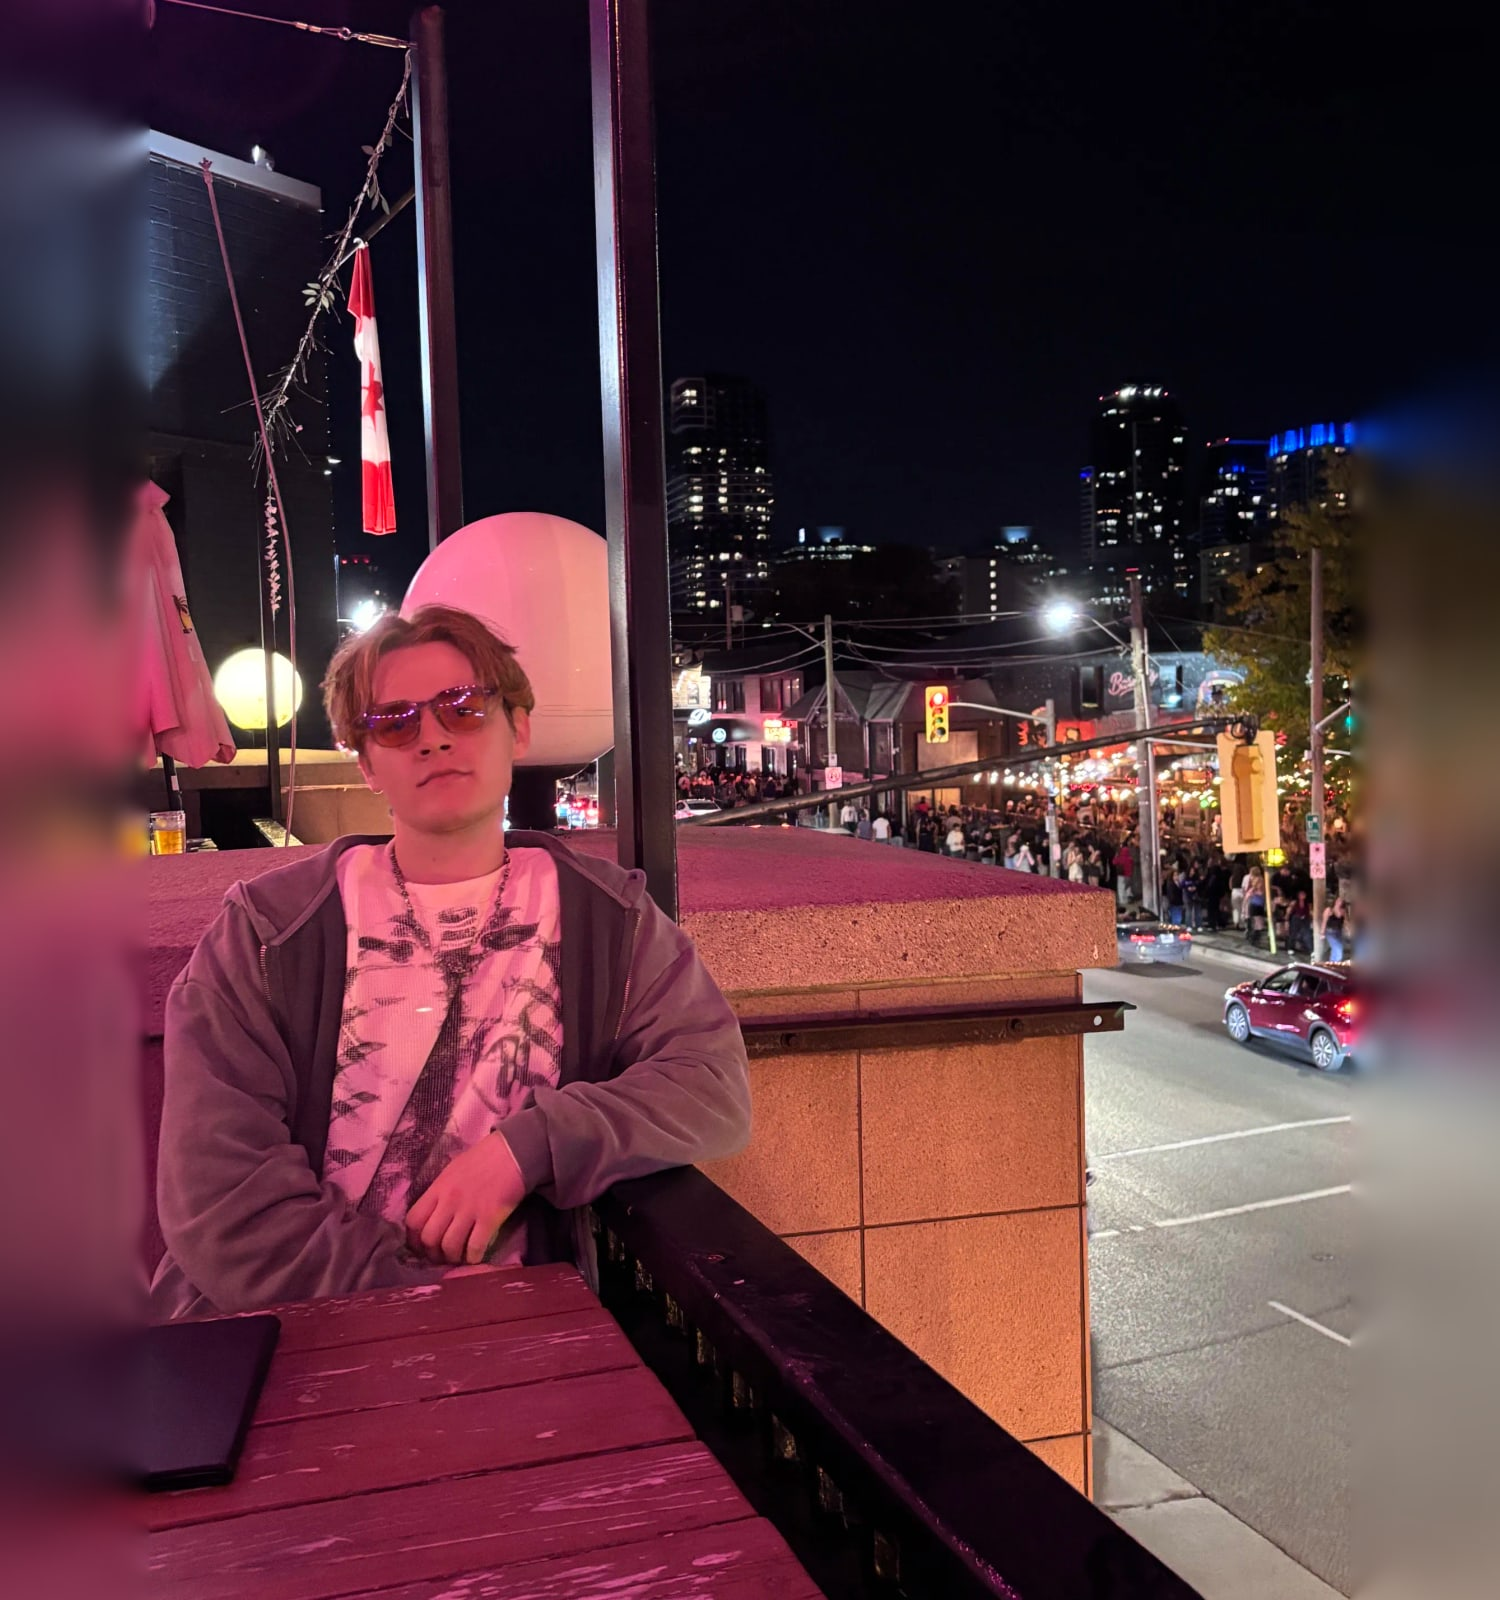
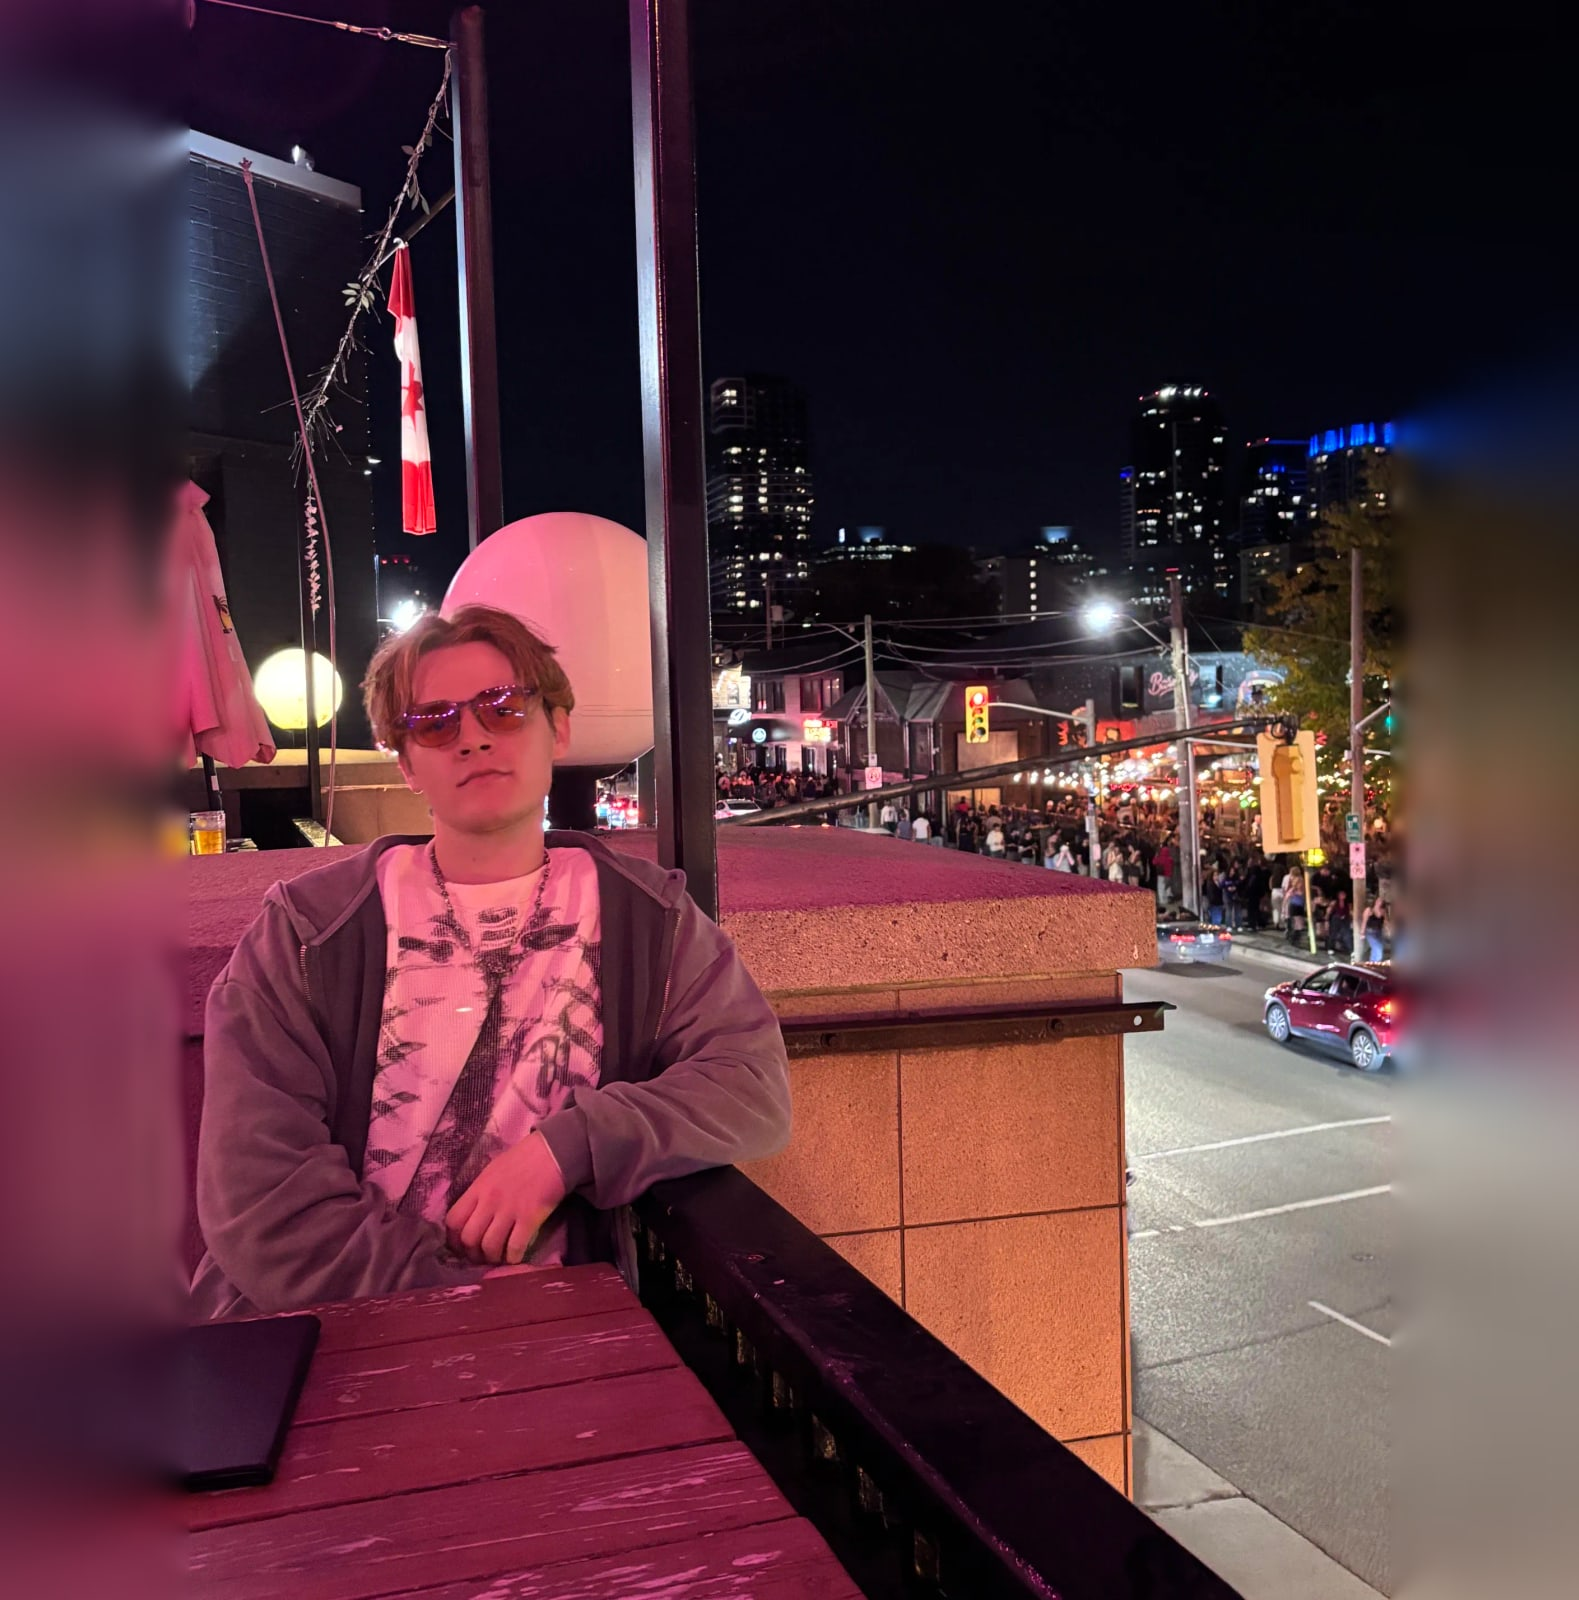
Shorten the experience pages, widen the hero strips to 12%
- Experience pages go from the name straight to the projects: no
  summary, photo or roles. FSAE keeps its summary, case study and roles
  but loses the photo. Nokia has no projects, so it keeps its role.
- Hero: the blurred side strips are 12% of the image on each side.
- Reel: the cursor's row tear only shows over full screen photos, the
  grid lines stay one texel wide at every quality level, the fine lines
  are a little stronger, and the dropout dashes are dimmer on the reel.
- hero.line sits under the name when the name is on the right.

diff --git a/src/app/experience/[slug]/page.tsx b/src/app/experience/[slug]/page.tsx
@@ -1,5 +1,4 @@
 import type { Metadata } from "next";
-import Image from "next/image";
 import { notFound } from "next/navigation";
 import Header from "@/components/Header";
 import SiteFooter from "@/components/SiteFooter";
@@ -7,7 +6,6 @@ import CaseStudyFeature from "@/components/work/CaseStudyFeature";
 import ProjectArticle from "@/components/work/ProjectArticle";
 import { BackLink, SectionHeading, labelClass } from "@/components/work/primitives";
 import { experience, orgs, profile, projects } from "@/data/content";
-import { basePath } from "@/lib/basePath";
 
 export const dynamicParams = false;
 
@@ -37,7 +35,12 @@ export default async function OrgPage({ params }: { params: Promise<{ slug: stri
   const featured = orgProjects.flatMap((p) =>
     p.caseStudy ? [{ slug: p.slug, caseStudy: p.caseStudy, href: p.caseStudyHref ?? `/work/${p.slug}/` }] : [],
   );
-  const [focusX, focusY] = org.imageFocus ?? [0.5, 0.5];
+  // Most pages are just the name and then the projects. pageIntro (FSAE) adds
+  // the label, the summary and the roles; an org with no projects listed keeps
+  // its roles, so its page is not just a name.
+  const intro = org.pageIntro ?? false;
+  const showRoles = (intro || orgProjects.length === 0) && roles.length > 0;
+  const gap = intro ? "mt-20 md:mt-28" : "mt-14 md:mt-20";
 
   return (
     <>
@@ -48,11 +51,9 @@ export default async function OrgPage({ params }: { params: Promise<{ slug: stri
           <BackLink href={`/#work-${org.slug}`}>All work</BackLink>
 
           <header className="mt-10 md:mt-14">
-            <p className={labelClass}>{org.label}</p>
-            <h1 className="mt-4 font-dot text-[clamp(2.75rem,10vw,9rem)] font-black uppercase leading-[0.85]">
-              {org.name}
-            </h1>
-            <p className="mt-8 max-w-3xl text-lg leading-snug md:text-2xl">{org.summary}</p>
+            {intro && <p className={`${labelClass} mb-4`}>{org.label}</p>}
+            <h1 className="font-dot text-[clamp(2.75rem,10vw,9rem)] font-black uppercase leading-[0.85]">{org.name}</h1>
+            {intro && <p className="mt-8 max-w-3xl text-lg leading-snug md:text-2xl">{org.summary}</p>}
           </header>
 
           {/* right under the header so the write up is on the first screen */}
@@ -71,34 +72,9 @@ export default async function OrgPage({ params }: { params: Promise<{ slug: stri
               />
             </section>
           ))}
-        </div>
 
-        {org.image && (
-          // capped at 80rem so the 1280 to 1600 px wide card photos are not blown up
-          <div className="relative mx-auto mt-12 aspect-[4/3] max-h-[70vh] w-full max-w-7xl overflow-hidden border border-border bg-foreground/[0.03] sm:aspect-video md:mt-16 lg:aspect-[2/1]">
-            <Image
-              src={`${basePath}${org.image}`}
-              alt=""
-              fill
-              sizes="(min-width: 1360px) 80rem, 100vw"
-              loading="eager"
-              className="object-cover"
-              style={{ objectPosition: `${focusX * 100}% ${focusY * 100}%` }}
-            />
-            <div
-              aria-hidden="true"
-              className="absolute inset-0 bg-linear-to-t from-background/90 via-background/30 via-40% to-transparent"
-            />
-            {/* same shadow as .home-text-block, keeps the caption readable on light photos */}
-            <p className="absolute inset-x-4 bottom-4 font-mono text-[11px] uppercase tracking-[0.2em] text-foreground/90 [text-shadow:0_1px_10px_rgba(0,0,0,0.9)] md:inset-x-6 md:bottom-6">
-              {org.title} · {org.period}
-            </p>
-          </div>
-        )}
-
-        <div className="mx-auto max-w-5xl">
-          {roles.length > 0 && (
-            <section aria-labelledby="roles" className="mt-20 md:mt-28">
+          {showRoles && (
+            <section aria-labelledby="roles" className={gap}>
               <SectionHeading id="roles">Roles</SectionHeading>
               <ol className={`mt-6 grid gap-x-10 ${roles.length > 1 ? "md:grid-cols-2" : ""}`}>
                 {roles.map((r) => (
@@ -113,7 +89,7 @@ export default async function OrgPage({ params }: { params: Promise<{ slug: stri
           )}
 
           {orgProjects.length > 0 && (
-            <section aria-labelledby="projects" className="mt-20 md:mt-28">
+            <section aria-labelledby="projects" className={gap}>
               <SectionHeading id="projects">Projects</SectionHeading>
               <ol className="mt-6 border-b border-border">
                 {orgProjects.map((p, i) => (

diff --git a/src/lib/stage/shaders.ts b/src/lib/stage/shaders.ts
@@ -471,6 +471,7 @@ uniform float uSceneAAsp;
 uniform sampler2D uContactTex;
 uniform float uContactAsp;
 uniform float uContactAnchor;
+uniform float uTexel;     // CSS px per scene texel (1, more on very wide screens and slow machines)
 
 const float TANF = ${f(REEL.TANF)};
 const float DIST = ${f(REEL.DIST)};
@@ -595,10 +596,12 @@ vec3 about(vec2 uv) {
 // The reel's ground: dark grey with a faint technical grid. Fine lines, a
 // heavier line every fourth, and small crosses where the heavier lines meet;
 // a little lighter toward the middle. The cells are a share of the screen's
-// height, so it looks the same on every screen.
+// height (a whole number of texels, so every line is one crisp texel), and the
+// lines are fainter where texels are larger or the cells small, so the grid
+// weighs about the same on every screen and quality step.
 vec3 reelBg(vec2 p) {
-  vec2 px = vUv * uRes;                 // scene texels from the bottom left
-  float cell = uRes.y / 36.0;           // about 26 px on a 945 px tall screen
+  vec2 px = vUv * uRes - 0.5;           // texel centres on whole numbers, from the bottom left
+  float cell = max(6.0, floor(uRes.y / 36.0 + 0.5));   // about 26 px on a 945 px tall screen
   vec2 g = px / cell;
   // distance to the nearest fine and heavy line, in texels
   vec2 dMinor = abs(fract(g + 0.5) - 0.5) * cell;
@@ -609,10 +612,11 @@ vec3 reelBg(vec2 p) {
   float arm = cell * 0.33;
   float crossX = (1.0 - smoothstep(0.4, 1.2, dMajor.y)) * step(dMajor.x, arm);
   float crossY = (1.0 - smoothstep(0.4, 1.2, dMajor.x)) * step(dMajor.y, arm);
-  float cross = min(1.0, crossX + crossY);
+  float marks = min(1.0, crossX + crossY);
+  float weight = clamp(cell * uTexel / 26.0, 0.4, 1.0) / uTexel;
   vec2 v = p * vec2(0.55, 0.85);
   vec3 c = vec3(0.118, 0.122, 0.133) * (1.1 - 0.22 * dot(v, v));
-  return c + vec3(0.78, 0.84, 0.92) * (0.02 * minor + 0.032 * major + 0.06 * cross);
+  return c + vec3(0.78, 0.84, 0.92) * (0.035 * minor + 0.032 * major + 0.06 * marks) * weight;
 }
 
 float sdRoundBox(vec2 p, vec2 b, float r) {
@@ -837,7 +841,8 @@ void main() {
   float rd = (vUv.y - uRoll.x) * uCss.y / uRollH;
   float roll = exp(-rd * rd) * uRoll.y * uMotion;
   float nd = (uv.y - uMouse.y) / 0.045;
-  float near = exp(-nd * nd) * uMouseE;
+  // only over a full screen picture, like the wake: the reel stays still
+  float near = exp(-nd * nd) * uMouseE * uWakeStrength;
   float edge = smoothstep(0.035, 0.0, uv.y) * 0.35;
   float tearAmt = clamp(band + near + edge + roll, 0.0, 1.0);
   // the mouse row mostly gets streaks (below); it only shifts a little
@@ -961,7 +966,9 @@ void main() {
   float pick = step(0.9895 - 0.30 * tearAmt, h2(vec2(dline * 3.1, dslot + 9.0)));
   float dx = uv.x - h2(vec2(dline, dslot));
   float len = 0.006 + 0.007 * h2(vec2(dslot, dline));
-  col += pick * step(0.0, dx) * step(dx, len) * 0.42 * uMotion;
+  // half as bright on the reel's dark ground, so they do not outshine its grid
+  float onReel = step(0.6, s.a) * step(s.a, 0.9);
+  col += pick * step(0.0, dx) * step(dx, len) * 0.42 * uMotion * (1.0 - 0.5 * onReel);
 
   o = vec4(col, 1.0);
 }`;

diff --git a/src/data/content.ts b/src/data/content.ts
@@ -38,23 +38,23 @@ export const hero: {
   textSide?: "left" | "right";
   keyLow: number;
   keyHigh: number;
-  /** Short line on the hero, on the side opposite your name on laptops (the left when textSide is "right"). Leave it empty to show nothing there. */
+  /** Short line on the hero: on laptops on the right with textSide "left" (opposite your name), and under your name with textSide "right". Leave it empty to show nothing there. */
   line: string;
 } = {
   figure: "/images/home/hero.jpg",
-  // The prepare script widens the photo by 10% on each side with a blurred
+  // The prepare script widens the photo by 12% on each side with a blurred
   // continuation of its own edges, so a laptop shows more of it. These
   // numbers are for that wider hero.jpg (the script prints how to convert
   // them): measured on the photo itself, face was
   // { x: 0.244, y: 0.459, rx: 0.0625, ry: 0.067 }.
-  face: { x: 0.2952, y: 0.459, rx: 0.05, ry: 0.067 },
-  // The photo is taller than wide, so a laptop shows a band across it (a
-  // little under half its height on a 2:1 screen): this keeps the tops of the
+  face: { x: 0.3057, y: 0.459, rx: 0.0475, ry: 0.067 },
+  // The photo is taller than wide, so a laptop shows a band across it (about
+  // half its height on a 2:1 screen): this keeps the tops of the
   // towers above your head. A phone shows the full height and about 60% of
   // the width, with you a little left of centre and the street on the right
   // (the blurred sides do not show there).
-  focus: [0.29, 0.35],
-  span: [0.1, 0.9],
+  focus: [0.31, 0.35],
+  span: [0.1203, 0.8803],
   // you are on the left of this photo, so your name goes over the city
   textSide: "right",
   keyLow: 0.06,
@@ -306,13 +306,20 @@ export type Org = {
    * the company's brand guidelines before using one.
    */
   logo?: string;
-  /** Optional photo under public/, shown behind the name. Without one the card is plain type in `tone`. */
+  /** Optional photo under public/, shown behind the name on the reel card (not on the org's page). Without one the card is plain type in `tone`. */
   image?: string;
   /** Which part of the photo to keep when the card crops it: [x, y] from 0 to 1, top left is [0, 0]. */
   imageFocus?: [number, number];
   /** Set to false when the photo already shows the company's name, so it is not written twice. */
   showName?: boolean;
   tone: CardTone;
+  /**
+   * The org's page (/experience/<slug>) normally shows just the name and then
+   * the projects. Set this to also show the label, the summary and the roles
+   * under the name. An org with no projects listed always shows its roles, so
+   * its page is not just a name.
+   */
+  pageIntro?: boolean;
 };
 
 export const orgs: Org[] = [
@@ -330,6 +337,8 @@ export const orgs: Org[] = [
     image: "/images/home/card-fsae.jpg",
     imageFocus: [0.5, 0.42],
     tone: "dark",
+    // the FSAE page keeps its summary and roles; the others go straight to the projects
+    pageIntro: true,
   },
   {
     slug: "multimatic",

diff --git a/src/components/home/HomeStage.tsx b/src/components/home/HomeStage.tsx
@@ -20,7 +20,7 @@ export type HomeProps = {
   /** footer year, worked out on the server so the built page and the browser agree */
   year: number;
   eyebrow: string;
-  /** a line on the hero, on the side opposite the name on laptops; empty to show nothing */
+  /** a line on the hero (opposite the name on laptops, or under it with heroSide "right"); empty to show nothing */
   tagline: string;
   /** which side the name sits on over the hero on laptops and wider */
   heroSide: "left" | "right";

diff --git a/src/app/globals.css b/src/app/globals.css
@@ -279,9 +279,12 @@ body:has(.home) .noise-overlay {
     padding: 0 2.5rem;
   }
 
-  /* hero.textSide "right": the name on the right, for a photo with you on the left */
+  /* hero.textSide "right": the name on the right, for a photo with you on the
+     left, with hero.line under it on the same side */
   .home-hero[data-side="right"] {
-    flex-direction: row-reverse;
+    flex-direction: column;
+    align-items: flex-end;
+    justify-content: center;
     text-align: right;
   }
 

diff --git a/src/lib/stage/stage.ts b/src/lib/stage/stage.ts
@@ -883,6 +883,7 @@ export class Stage {
     gl.uniform1f(u.uSceneAAsp, this.aspAbout);
     gl.uniform1f(u.uContactAsp, this.aspContact);
     gl.uniform1f(u.uContactAnchor, a.contactAnchor);
+    gl.uniform1f(u.uTexel, this.texel);
     gl.drawArrays(gl.TRIANGLES, 0, 3);
 
     // 4. dots and CRT treatment, to the screen. The wake bends the picture

diff --git a/README.md b/README.md
@@ -20,7 +20,7 @@ Everything you'd normally change lives in [`src/data/content.ts`](src/data/conte
 | Name, school, email, LinkedIn | `profile` |
 | Hero photo (or a cutout or clip) and one-line intro | `hero` |
 | About me paragraphs | `about` |
-| Line on the hero, opposite your name (empty for now) | `hero.line` |
+| Line on the hero, by your name (empty for now) | `hero.line` |
 | Cards on the work reel | `orgs` (order = card order) |
 | Roles shown on each card and org page | `experience` (matched to `orgs` by `name`) |
 | Project pages under each org | `projects` (matched to `orgs` by `team`) |
@@ -29,13 +29,13 @@ Everything you'd normally change lives in [`src/data/content.ts`](src/data/conte
 
 ### Swapping in your own hero photo or clip
 
-The hero is a whole photo, background and all, drawn as dots across the screen. The current one is you on a patio at night with the city behind you (the original is kept as `assets-src/hero-night-original.webp`). The prepare script widens it by 10% on each side: the photo stays untouched in the middle, and the two added strips continue the colours along its left and right edges, blurred more the farther out, like the same scene out of focus. Nothing new is made up and nothing in the photo is copied into the strips. On a laptop the photo then fills the middle 80% of the screen and shows a little under half its height (it is taller than wide, so a laptop shows a band across it); a phone shows its full height and about 60% of its width, and a tablet held upright about all of its width, so the strips do not show there. The hero has no dark fade at the screen's edges, unlike the about and contact photos. The Rock of Cashel photo used before is `assets-src/hero-scene-cashel.jpg`; its `face` and `focus` values are in a comment above `hero` in `content.ts`. The hero holds still, and every few seconds it glitches: blocks jump sideways, short streaks pull off the right edge of your face, and now and then a tear band rolls through.
+The hero is a whole photo, background and all, drawn as dots across the screen. The current one is you on a patio at night with the city behind you (the original is kept as `assets-src/hero-night-original.webp`). The prepare script widens it by 12% on each side: the photo stays untouched in the middle, and the two added strips continue the colours along its left and right edges, blurred more the farther out, like the same scene out of focus. Nothing new is made up and nothing in the photo is copied into the strips. On a laptop the photo then fills the middle 76% of the screen and shows about half its height (it is taller than wide, so a laptop shows a band across it); a phone shows its full height and about 60% of its width, and a tablet held upright about all of its width, so the strips do not show there. The hero has no dark fade at the screen's edges, unlike the about and contact photos. The Rock of Cashel photo used before is `assets-src/hero-scene-cashel.jpg`; its `face` and `focus` values are in a comment above `hero` in `content.ts`. The hero holds still, and every few seconds it glitches: blocks jump sideways, short streaks pull off the right edge of your face, and now and then a tear band rolls through.
 
 To change the photo:
 
 1. Any photo of you works, upright or landscape. A photo narrower than 2:1 gets the blurred strips (`HERO_SIDE_FILL` in the script sets how wide each one is; `0` keeps the photo as it is). Phones crop the sides, so keep your face clear of the edges.
 2. Save it as `assets-src/hero-scene.webp`, `.jpg` or `.png` (keep only one of them).
-3. Run `node scripts/prepare-home-assets.mjs hero`. It writes `public/images/home/hero.jpg` without the photo's metadata (location included), at most 1600 on its longer side (the current one is 1500x1600). When it widens the photo it prints where the real photo sits in `hero.jpg`: copy that into `hero.span` in `content.ts` (so screens narrower than the photo never show the blurred strips), and it prints how to convert numbers measured on the photo for step 4. For a photo it did not widen, leave `hero.span` out.
+3. Run `node scripts/prepare-home-assets.mjs hero`. It writes `public/images/home/hero.jpg` without the photo's metadata (location included), at most 1600 on its longer side (the current one is 1579x1600). When it widens the photo it prints where the real photo sits in `hero.jpg`: copy that into `hero.span` in `content.ts` (so screens narrower than the photo never show the blurred strips), and it prints how to convert numbers measured on the photo for step 4. For a photo it did not widen, leave `hero.span` out.
 4. In `content.ts`, set `hero.face` to where your head is in `hero.jpg`: `x`, `y` are the centre of your face (between the eyes and the nose), `rx` is half the width of your face, `ry` is half the height from the top of your hair (or hat) to your chin. All are fractions of the picture, measured from the top left. They place the glitch streaks and keep your head in view when a screen crops the photo.
 5. Set `hero.focus` to the part of the photo that should stay in view when a screen crops it, as `[x, y]` from 0 to 1 (like CSS `object-position`). On very wide or very narrow screens the crop only moves as far as it must to keep your head in view, so a low `y` keeps the top of the photo on ordinary screens without cutting off your face on ultra-wide ones.
 6. Set `hero.textSide` to the side your face is not on (`"left"` or `"right"`), so your name does not cover it on laptops and phones held sideways. Phones held upright put the name at the bottom left.
